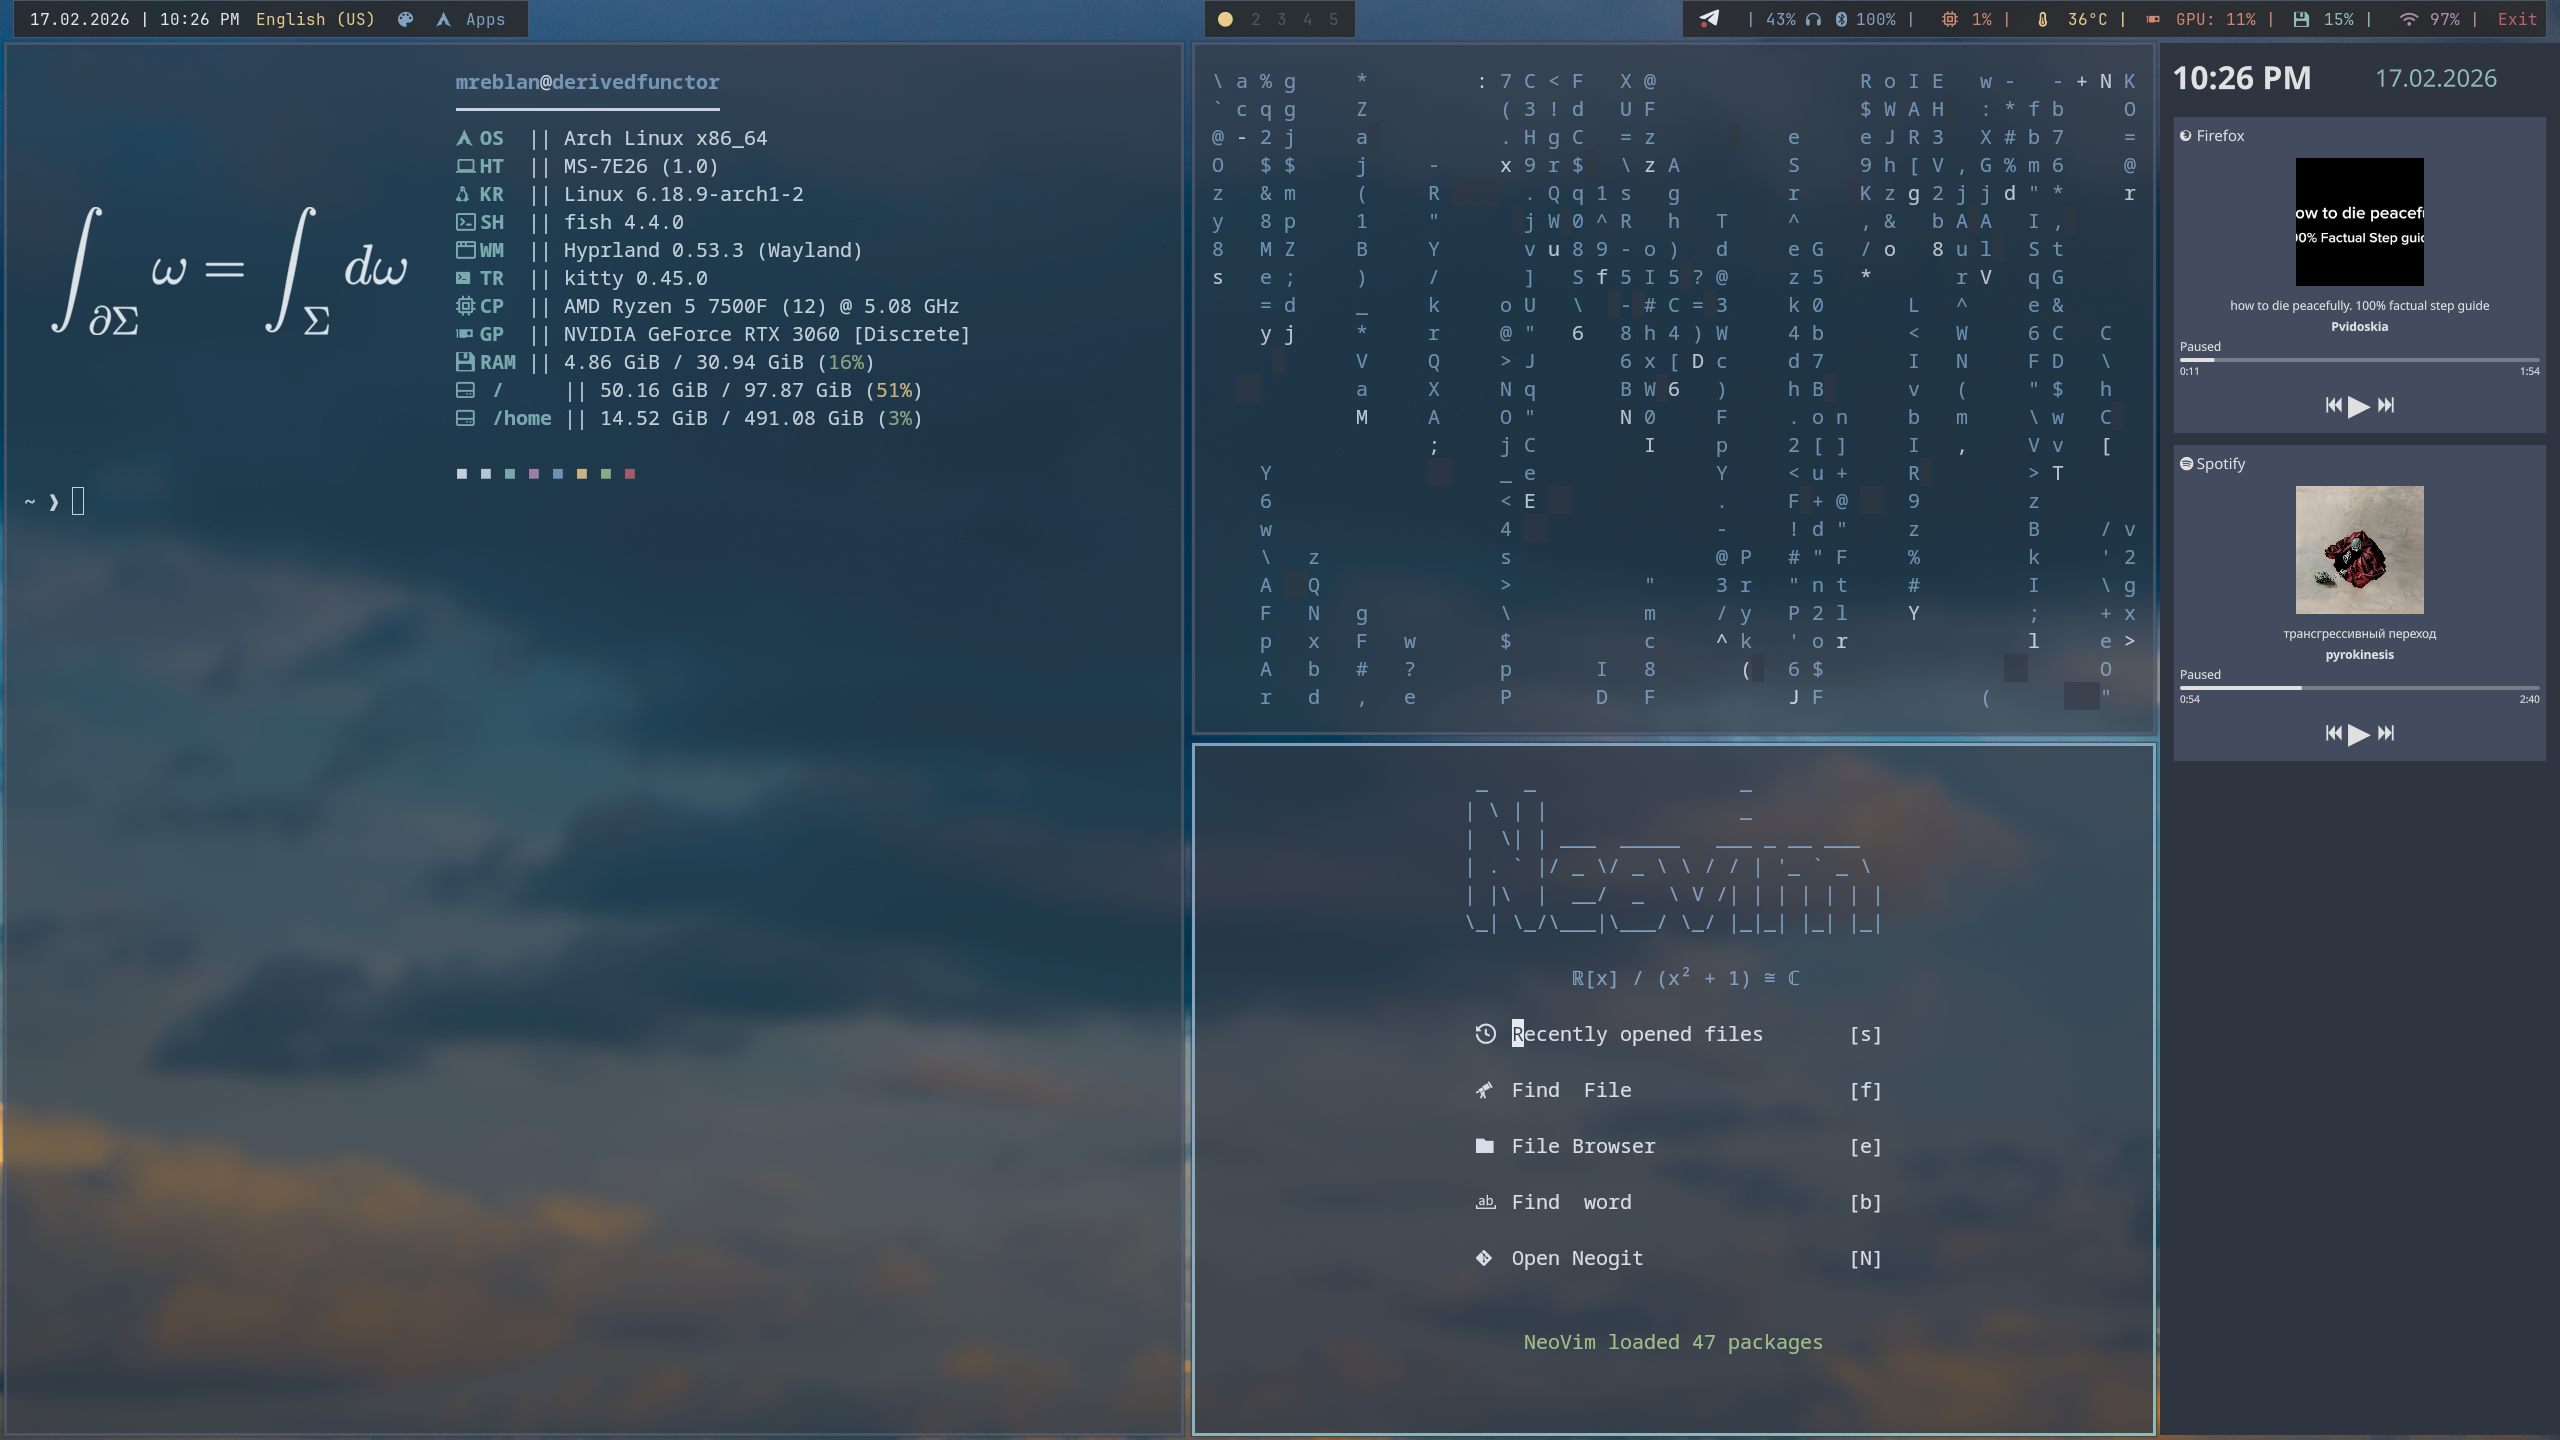
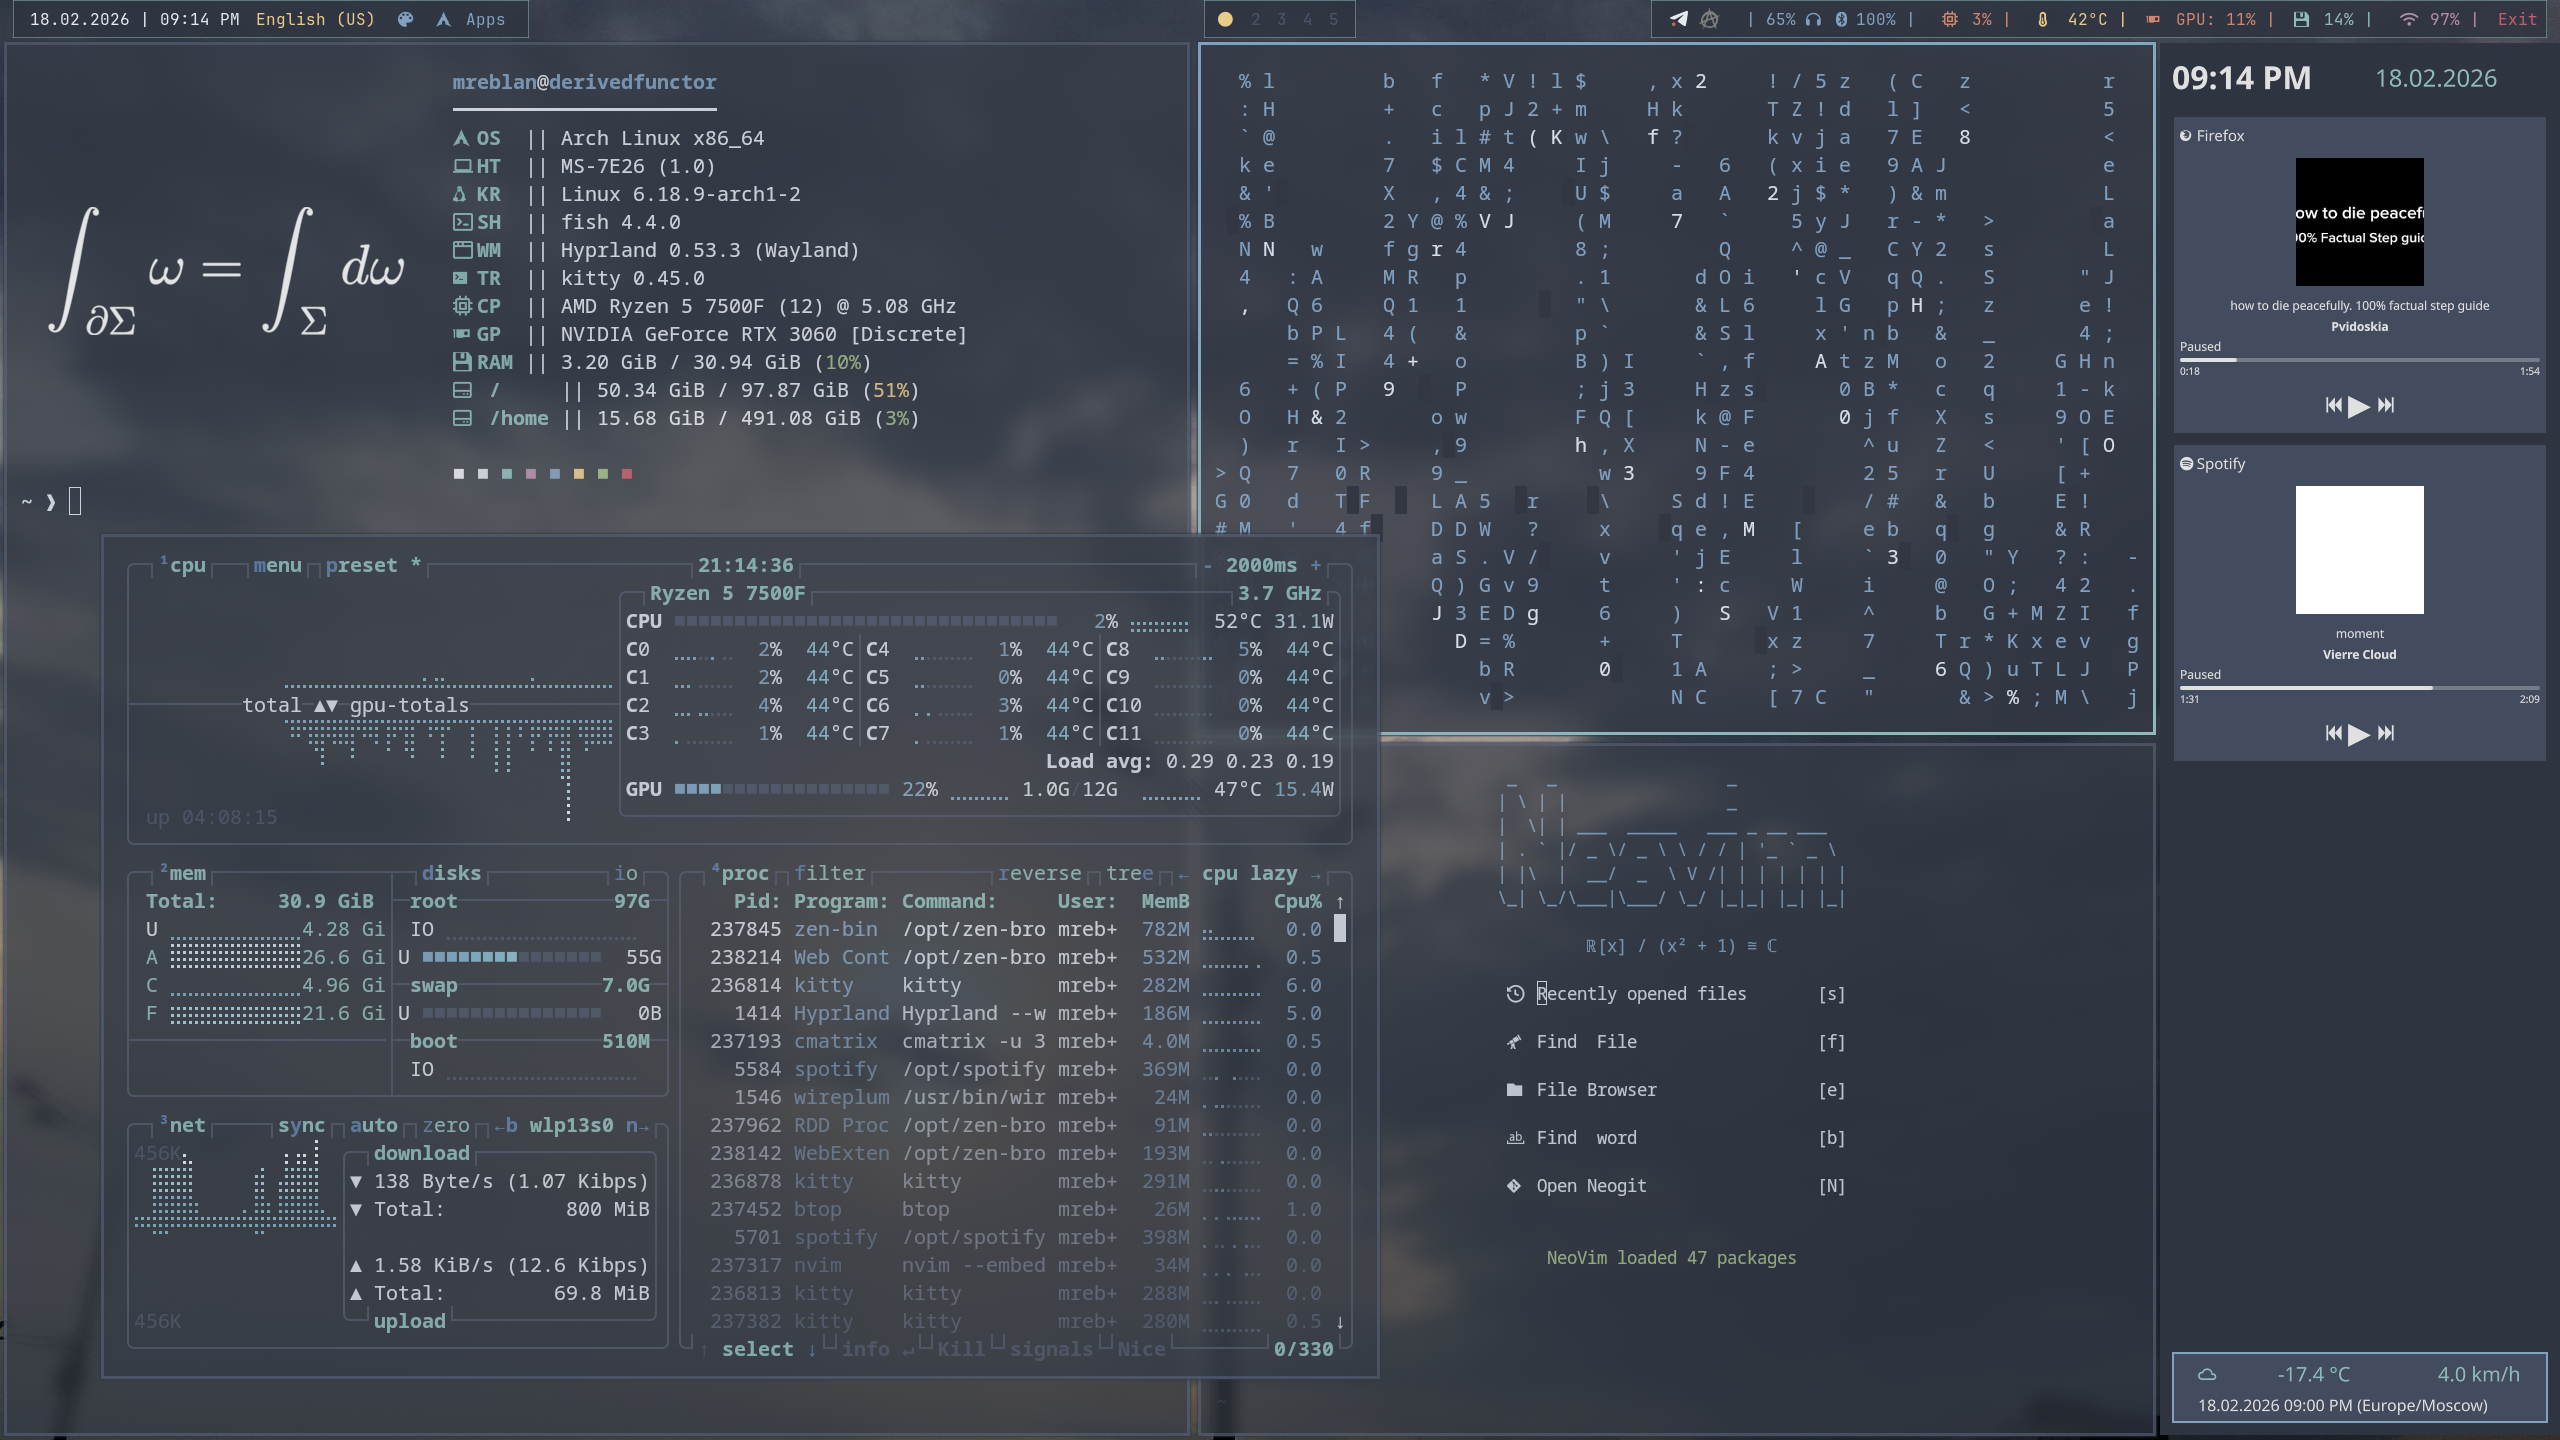
feat: added simple wallpaper selector

diff --git a/wofi/.config/wofi/style.css b/wofi/.config/wofi/style.css
@@ -1,14 +1,16 @@
+@import "colors.css";
+
 *:selected {
-    background: transparent;
+    background: alpha(@red, 0.9);
 }
 
 window {
-  background-color: #2e3440;
+  background-color: @red;
 }
 
 * {
   font-family: "Jetbrains Mono";
-  color: #e5e9f0;
+  color: @text;
 }
 
 #scroll {
@@ -16,11 +18,11 @@ window {
 }
 
 #input {
-  background-color: #434c5e;
-  color: #e5e9f0;
+  background-color: @surface0;
+  color: @text;
   outline: none;
   box-shadow: none;
-  border: 0.5px solid #8fbcbb;
+  border: 0.5px solid @border;
   border-radius: 0rem;
   font-size: 1rem;
   padding: 0.5rem;
@@ -40,11 +42,11 @@ window {
 }
 
 #entry:selected {
-  background-color: #81a1c1;
+  background-color: @red;
   outline: none;
 }
 
 #text:selected {
-  color: #2e3440;
+  color: @red;
 }
 

diff --git a/wofi/.config/wofi/colors.css b/wofi/.config/wofi/colors.css
@@ -1,0 +1,20 @@
+/* For autogen, don't change by hand */
+@define-color base    #2e3440;
+@define-color text    #e5e9f0;
+@define-color surface0 #434c5e;
+@define-color surface1 #4c566a;
+@define-color surface2 #4c566a;
+
+@define-color red     #bf616a;
+@define-color orange  #d08770;
+@define-color yellow  #ebcb8b;
+@define-color green   #a3be8c;
+@define-color blue    #81a1c1;
+@define-color purple  #b48ead;
+@define-color aqua    #8fbcbb;
+
+@define-color accent  #81a1c1;
+@define-color border  #8fbcbb;
+
+@define-color critical @red;
+@define-color warning  @orange;

diff --git a/README.md b/README.md
@@ -103,6 +103,14 @@ sudo pacman -S papirus-icon-theme
 
 To install only one theme, use the packages from the table above. Adjust `~/.local/bin/togglefloat.sh` and `~/.local/bin/random_wallpaper.fish` (or your own wrapper script) if you use those keybinds/autostart.
 
+## How to apply
+
+You can just use `stow` to make symlinks:
+
+```bash
+stow btop colors desktop-apps fastfetch fish gtk-3.0 hypr kitty nvim quickshell scripts swaync waybar wlogout wofi
+```
+
 ## AI Alert
 
 Some parts were made by vibe coding, so be careful and understand what you're doing
